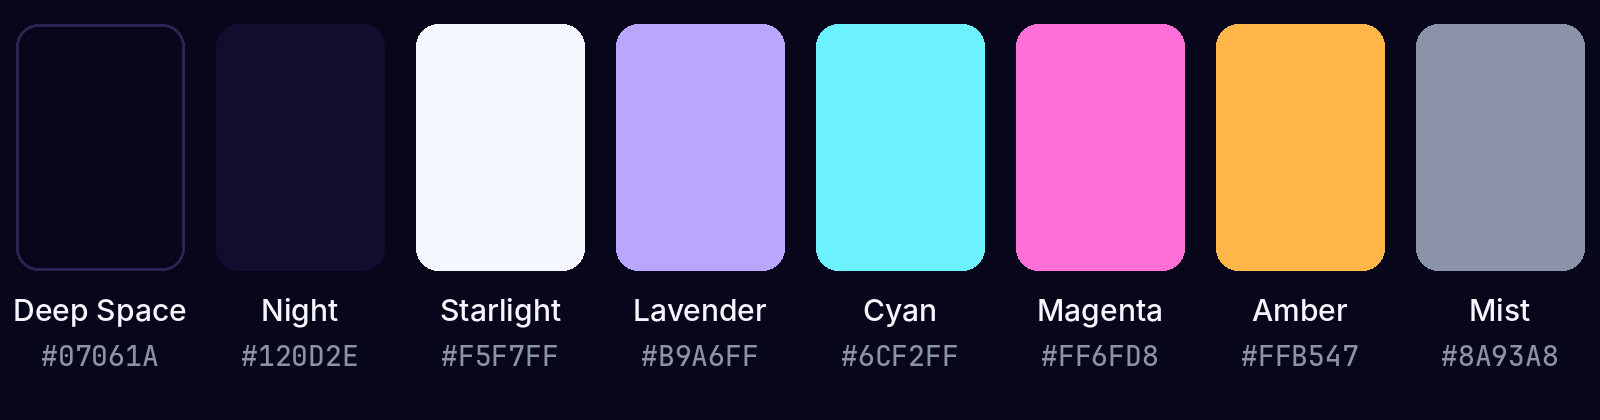
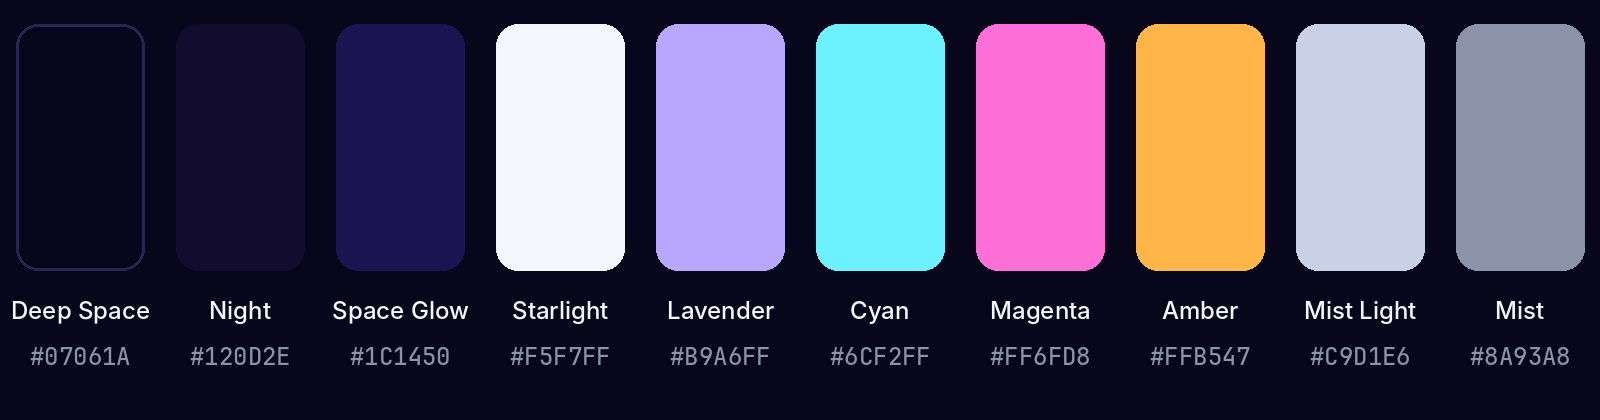
Playbook round 2: resolve contradictions found by a fresh-eyes audit
A consistency audit and a test spec for the next film (written from the
playbook alone) found 33 confirmed gaps; this fixes them.

Playbook
- Background limit is 0x1A (the base colour itself broke the old 0x14).
- Post figures: repeat on-screen figures exactly; size lists use 3 s.f.
- Starting object is not a stop: no STEP chip or row; label timings.
- Zoom-in films: fade windows, hold drift, YOU pin and payoff brackets
  defined both ways; cyan wins when a film starts at you; sound for that.
- Magenta = the universe and the outro glow, never a mid-film reveal;
  "finale" chord = the final stop, whatever it is.
- Nebula strength factor, first-sprint condition, hook end at 2.75 s,
  mono mark exception, exponent typesetting, MARK vs warp rings.

Reference code and assets
- Atom size text 0.106 nanometres; proton line fits above the 26 floor.
- Planet captions in Mist Light.
- brandlib: full 10-colour palette with roles, Inter Display Bold,
  no per-ring colour variant; banner tagline outside the clear space.
- Lockups no longer suggested for thumbnails or end cards; size list
  uses 60.1 AU; unused cover headline removed.
- AGENTS.md / Copilot mirror: baseline wording and repo intro.

Claude-Session: https://claude.ai/code/session_01UvW1GigXfErF5NAYihPgfw

diff --git a/lumiera_brand/brandlib.py b/lumiera_brand/brandlib.py
@@ -14,20 +14,22 @@ from PIL import Image, ImageDraw, ImageFont
 
 # --------------------------------------------------------------------------- palette
 PALETTE = {
-    "deep_space": "#07061A",  # background
-    "night": "#120D2E",  # raised background / gradients
-    "starlight": "#F5F7FF",  # primary text and the core of the mark
-    "lavender": "#B9A6FF",  # primary accent (the Planck dot)
-    "cyan": "#6CF2FF",  # "you are here", highlights
-    "magenta": "#FF6FD8",  # the observable universe, big reveals
-    "amber": "#FFB547",  # warm accent (Sun, life)
-    "mist": "#8A93A8",  # secondary text
+    "deep_space": "#07061A",  # backgrounds
+    "night": "#120D2E",  # raised backgrounds, gradients
+    "space_glow": "#1C1450",  # soft centre glow of brand stills only, never films
+    "starlight": "#F5F7FF",  # main text, the core of the mark
+    "lavender": "#B9A6FF",  # primary accent; the start of every journey
+    "cyan": "#6CF2FF",  # means you: the you-are-here dot, YOU tags; never a general highlight
+    "magenta": "#FF6FD8",  # the observable universe, the outro counter's glow
+    "amber": "#FFB547",  # warm accent (life, warmth); the films' Sun is #FFB13B
+    "mist_light": "#C9D1E6",  # readable secondary lines
+    "mist": "#8A93A8",  # small labels and hints
 }
 
 FONT_DIR = Path("/usr/share/fonts/opentype/inter")
 MONO_DIR = Path("/usr/share/fonts/truetype/jetbrains-mono")
 FONTS = {
-    "display": FONT_DIR / "InterDisplay-SemiBold.otf",
+    "display": FONT_DIR / "InterDisplay-Bold.otf",  # titles and the hook (brand §4)
     "display_medium": FONT_DIR / "InterDisplay-Medium.otf",
     "display_light": FONT_DIR / "InterDisplay-Light.otf",
     "body": FONT_DIR / "Inter-Medium.otf",
@@ -114,14 +116,14 @@ def draw_mark(light: Light, cx: float, cy: float, radius: float, variant: str = 
     """The Lumiera mark: a light point with rings whose radii double.
 
     ``radius`` is the outer ring radius in pixels.  ``variant`` picks the colouring:
-    "gradient" (lavender to cyan, by angle), "tri" (one colour per ring), "white".
+    "gradient" (lavender to cyan, by angle) or "white".
     ``mono`` forces a single colour (for watermarks).
     """
     x, y = light.grid(cx, cy, radius)
     r = np.hypot(x, y)
     th = np.arctan2(y, x)
     px = 1.0 / radius
-    lav, cyan, mag, white = rgb(PALETTE["lavender"]), rgb(PALETTE["cyan"]), rgb(PALETTE["magenta"]), rgb(PALETTE["starlight"])
+    lav, cyan, white = rgb(PALETTE["lavender"]), rgb(PALETTE["cyan"]), rgb(PALETTE["starlight"])
     # light comes from the upper left: blend lavender -> cyan across the mark
     t = np.clip((np.cos(th - math.radians(135)) * -0.5 + 0.5), 0, 1)[..., None]
     grad = lav[None, None, :] * (1 - t) + cyan[None, None, :] * t
@@ -129,8 +131,6 @@ def draw_mark(light: Light, cx: float, cy: float, radius: float, variant: str = 
     def colour(i):
         if mono is not None:
             return rgb(mono)[None, None, :]
-        if variant == "tri":
-            return (lav, cyan, mag)[i][None, None, :]
         if variant == "white":
             return white[None, None, :]
         return grad
@@ -165,7 +165,7 @@ def draw_mark(light: Light, cx: float, cy: float, radius: float, variant: str = 
 
 # --------------------------------------------------------------------------- backgrounds
 def space_background(w: int, h: int, cx=None, cy=None, stars: int = 140, seed: int = 7,
-                     glow_color="#1C1450", glow_radius=None) -> np.ndarray:
+                     glow_color=PALETTE["space_glow"], glow_radius=None) -> np.ndarray:
     """Deep-space gradient with a soft central glow and faint stars (float RGB)."""
     cx = w / 2 if cx is None else cx
     cy = h / 2 if cy is None else cy

diff --git a/lumiera_brand/build_brand.py b/lumiera_brand/build_brand.py
@@ -215,9 +215,10 @@ def youtube_banner() -> Image.Image:
     L.rgb *= (1 - 0.9 * np.exp(-((x / 820) ** 2 + ((y + 20) / 210) ** 2)))[..., None]  # keep the text area clean
     paste_light(base, L)
     # everything important stays inside YouTube's 1546x423 all-device safe area
-    lock = lockup(270, stacked=False, on_dark=False)
-    base.paste(lock, ((W - lock.width) // 2, H // 2 - lock.height // 2 - 52), lock)
-    draw_tracked(base, (W / 2, H // 2 + 158), TAGLINE, font("body", 70), PALETTE["mist"], 0.01)
+    # keep a quarter of the ring's diameter clear between the mark and the tagline (brand §2)
+    lock = lockup(250, stacked=False, on_dark=False)
+    base.paste(lock, ((W - lock.width) // 2, H // 2 - lock.height // 2 - 66), lock)
+    draw_tracked(base, (W / 2, H // 2 + 168), TAGLINE, font("body", 64), PALETTE["mist"], 0.01)
     return base
 
 
@@ -231,8 +232,8 @@ def palette_sheet() -> Image.Image:
         x0 = i * cw
         d.rounded_rectangle((x0 + 16, 24, x0 + cw - 16, 270), radius=22, fill=hx,
                             outline="#2A2550" if name == "deep_space" else None, width=3)
-        d.text((x0 + cw / 2, 310), name.replace("_", " ").title(), font=font("body", 30), fill=PALETTE["starlight"], anchor="mm")
-        d.text((x0 + cw / 2, 356), hx.upper(), font=font("mono", 28), fill=PALETTE["mist"], anchor="mm")
+        d.text((x0 + cw / 2, 310), name.replace("_", " ").title(), font=font("body", 24), fill=PALETTE["starlight"], anchor="mm")
+        d.text((x0 + cw / 2, 356), hx.upper(), font=font("mono", 24), fill=PALETTE["mist"], anchor="mm")
     return img
 
 

diff --git a/doubling_film/story.py b/doubling_film/story.py
@@ -93,11 +93,11 @@ MILESTONES: list[Milestone] = [
     ),
     Milestone(
         "proton", 1.68e-15, "A PROTON", "0.0000000000000017 m",
-        "About [100 quintillion] Planck lengths wide", "#FF8A5B", 3.2,
+        "[≈100 quintillion] Planck lengths wide", "#FF8A5B", 3.2,
         row=Row(1e20, "Planck lengths", (-0.5, 0.0), (0.5, 0.0), "#B9A6FF"),
     ),
     Milestone(
-        "atom", 1.06e-10, "A HYDROGEN ATOM", "0.1 nanometres",
+        "atom", 1.06e-10, "A HYDROGEN ATOM", "0.106 nanometres",
         "[≈60,000×] wider than its proton", "#5CC8FF", 3.2,
         row=Row(60_000, "protons", (-0.5, 0.0), (0.5, 0.0), "#FF8A5B"),
     ),

diff --git a/doubling_film/visuals.py b/doubling_film/visuals.py
@@ -604,7 +604,7 @@ class SolarSystem(Visual):
             dot = Dot(radius=rpx / 120, color=col)
             self.planets.append((dot, a, au, a0, name))
             if name in ("Uranus", "Neptune"):
-                self.labels.append((text(name, 17, color="#AFC0E0"), name))
+                self.labels.append((text(name, 17, color="#C9D1E6"), name))
         ring = Ellipse(width=0.17, height=0.05, stroke_color="#F2DDA8", stroke_width=1.6, fill_opacity=0)
         self.saturn_ring = ring
         belts = sprite("belts", D0 * 1.6, "#FFFFFF", alpha=0.32)

diff --git a/playbook/film-style.md b/playbook/film-style.md
@@ -47,12 +47,17 @@ and therefore to every cover, since a cover is a film frame.
 
 Every film is **one honest question, answered on screen**.
 
-1. **Hook (0–~2.5 s).** A question the viewer can answer in their head, with the signature
+1. **Hook (0–2.75 s; the first step starts at 2.75 s, `HOOK` in `story.py`).** A question the viewer can answer in their head, with the signature
    sub-line "Guess before it ends." (see `brand.md` §1).
    - The glyphs rise in from frame 0, 0.32 s each with a 0.011 s stagger, so the whole question is in by ≈ 0.8 s.
    - The sub-line enters at ≈ 0.85 s.
    - Both leave from 2.1 s and MUST be fully gone before the HUD fades in (2.5–2.95 s).
    - The starting object (e.g. the Planck dot with its dashed reticle) is visible underneath from frame 0.
+   - The starting object is **not a stop**. Its label block rises in from ≈ 0.45 s at the usual
+     positions (§5): size text in its accent with **no STEP chip**, the title and one line. It has no
+     measuring row. It starts leaving at ≈ 3.3 s, just before the mechanic's phase label (3.45 s), so
+     it is part of the hook frame and the cover. The HUD shows 0 when it fades in. When the start is
+     you, the YOU pin fades in with the HUD (2.5–2.95 s), never under the hook.
    - **The hook frame** is the moment the question and sub-line are both fully on screen and not yet
      leaving (1.9 s in The Doubling). Frame 0 is **not** the hook frame.
 2. **Teach the mechanic (~3 s).** Show the rule slowly before speeding up. The Doubling counts its
@@ -79,11 +84,11 @@ The answer to the hook MUST NOT appear in the cover or any post text (full list:
 |---|---|
 | Hold at a stop | **~3.2 s**. Use up to ~3.8 s when a note follows, ~5.4 s for the payoff stop and ~4.6 s for the final stop |
 | Transition between stops | `0.5 + 0.028 × (steps travelled)` seconds (≈ 0.7–1.1 s) |
-| First sprint (end of teaching → first stop) | ≈ 2.5 s |
+| First sprint (end of teaching → first stop) | ≈ 2.5 s when it crosses a stretch with no stop (The Doubling's desert, steps 9–66). If the first stop follows the teaching directly, it is an ordinary transition (row above) |
 | Labels | Enter 0.3 s **before** the object settles; exit when the next transition starts |
 | Note (a second line that replaces the comparison) | Enters 1.2–2.5 s into the hold, after the comparison has been read |
 | Comparison row | Starts 0.5 s after arrival and fills in **1.5 s** (ease-in-out). A row that belongs to a note starts as the note enters |
-| Motion | Never fully stops. During a hold the camera keeps drifting slowly in the direction of travel: from `n_i − 0.15` to `n_i + 0.25` |
+| Motion | Never fully stops. During a hold the camera keeps drifting slowly in the direction of travel: from `n_i − 0.15` to `n_i + 0.25` (when `n` falls: from `n_i + 0.15` to `n_i − 0.25`) |
 
 ---
 
@@ -94,9 +99,10 @@ additive glows, and procedural textures for the Sun, galaxies and so on. Backgro
 
 - **Background.** The film base is near-black indigo (`#08061A`; brand Deep Space `#07061A`). It MAY
   shift subtly in hue by scene (warm near the Sun, blue near Earth), but it MUST stay near-black, with
-  no channel above `0x14`. The Doubling's per-scene ramp is `BG_KEYS` in `doubling_film/film.py`.
-- A soft **nebula glow** (≈ 20% strength) sits behind the featured object, tinted with its accent.
-  Dial it down (to ~25–60%) where it would read as mud, e.g. empty frames between two stars.
+  no channel above `0x1A` (the base's own blue; every `BG_KEYS` entry is within it). The Doubling's per-scene ramp is `BG_KEYS` in `doubling_film/film.py`.
+- A soft **nebula glow** (≈ 20% opacity) sits behind the featured object, tinted with its accent.
+  Where it would read as mud or wash out the subject, scale it by a factor of ~0.25–0.8, never above 1
+  (The Doubling: star 0.25, solar system 0.6, Everest 0.7, Earth 0.8; `NEBULA` in `film.py`).
 - Glows MUST add like light ("screen" blend) and MUST fade to zero before the edge of their sprite.
   A visible square edge on a glow is a defect.
 - A light vignette is fine. Banding is avoided by the encode-time grain.
@@ -110,11 +116,14 @@ additive glows, and procedural textures for the Sun, galaxies and so on. Backgro
     It's never the accent of any other subject.
   - **Measuring rows** take the colour of **the thing being counted** (§4), lightened where it would
     not read against the current subject.
-  - **Lavender `#B9A6FF`** is the start: the starting object, the mechanic phase, the ×2 pops, and the
-    mechanic word in the hook ("double").
-  - **Magenta `#FF6FD8`** is the finale glow and the outro counter's glow.
+  - **Lavender `#B9A6FF`** is the start: the starting object, the mechanic phase, the ×2 / ÷2 pops,
+    and the mechanic word in the hook ("double"). When the starting object is you, cyan wins: the
+    human stays cyan, and lavender marks only the mechanic (the phase, the pops and the mechanic word).
+  - **Magenta `#FF6FD8`** is the observable universe's accent and the outro counter's glow in every
+    film. It is never used for a mid-film reveal. A final stop other than the universe keeps its own accent.
   - The **progress meter** fill is a gradient from the start accent to the final accent
-    (lavender → cyan → magenta in The Doubling).
+    (lavender → cyan → magenta in The Doubling). It starts from the starting object's colour (cyan
+    in a film that starts at you).
 - **Text colours.** Starlight `#F5F7FF` for titles and main text. Mist Light `#C9D1E6` for readable
   secondary lines (comparisons, notes, size text beside a chip, captions inside drawings, the outro
   label). Mist `#8A93A8` for small labels and hints (HUD label, hook sub-line, the meter's "0").
@@ -136,7 +145,7 @@ additive glows, and procedural textures for the Sun, galaxies and so on. Backgro
 | Solar system | `#8FB8FF` |
 | Stars | `#FF8C6B` |
 | Galaxy | `#C7A6FF` |
-| Universe / finale | `#FF6FD8` magenta |
+| Universe | `#FF6FD8` magenta |
 
 A **new subject** gets its accent once: at least ~30° of hue away from neighbouring stops, never cyan
 or magenta. Add it to this table in the same pull request, and reuse it in every later film.
@@ -152,9 +161,12 @@ Drawing style per subject (SHOULD):
 ### Movement
 - **Zoom by scale.** An object at stop `i` is drawn at `2^(n_i − n)` of its reference size (a
   diameter of 5.2 units, centred at y = +0.22).
-  - It's fully visible from about 1/10 to about 1.5× its reference size.
-  - It fades in between 3× and 1.5× (`n_i − 1.6` to `n_i − 0.55` when growing).
-  - It fades out between 1/10 and 1/85 (`n_i + 3.4` to `n_i + 6.4`).
+  - It's fully visible from about 1/10 to about 1.5× its reference size (`n_i + 3.4` to `n_i − 0.55`)
+    and fades to zero by 1/85 (`n_i + 6.4`) and by 3× (`n_i − 1.6`). The window is defined on `n`, so
+    it is the same in both directions; only the order changes.
+  - When growing (`n` rises): it fades in from 3× to 1.5× and fades out from 1/10 to 1/85.
+  - When zooming in (`n` falls): it fades in from 1/85 to 1/10 (arriving as a point) and fades out
+    from 1.5× to 3×.
   - Nothing pops in at full size.
 - **Direction.** These rules are defined on `n`, so they hold both ways. In a film that zooms in
   (`n` falls; e.g. The Halving):
@@ -181,11 +193,11 @@ Reuse these. They are what makes a film recognisably ours. The geometry and code
 |---|---|
 | **HUD counter** | Big number at top centre (JetBrains Mono Bold, size 104, y = +5.6, white `#FFFFFF`). Above it, a label at y = +6.55 (Inter Medium 19, CAPS, Mist, tracked +0.09 units) names the film's unit ("DOUBLINGS", "HALVINGS"). It fades in over 2.5–2.95 s, after the hook. While a stop holds, it shows that stop's step. On arrival it **punches** (+16% and back over 0.5 s) and flashes 85% toward the accent, decaying over ~0.45 s |
 | **Size readout + ruler** | A live scientific readout ("1.7 × 10⁰ m"): JetBrains Mono Medium 30, `#9FB3D9`, y = +4.5, mantissa to one decimal, with the exponent drawn as raised 0.6× digits and a true minus. It stays live during holds, because it labels the ruler; the stop's nominal size is the label's size text. Below it, a ruler at y = +4.12 (`#5D6B8C`, 1.6 px) whose width equals the reference size (5.2 units) |
-| **STEP chip** | At every stop, a pill ("STEP 116") left of the size text and above the title. JetBrains Mono Bold 22 in the accent, on an accent fill at 16% with a 1.6 px accent outline. **Step number = `round(|n_stop − n_start|)` on unrounded values**, in the film's own unit counted from its own start. The HUD shows the same number during the hold. Never subtract rounded steps taken from another film |
+| **STEP chip** | At every stop after the start (§2), a pill ("STEP 116") left of the size text and above the title. JetBrains Mono Bold 22 in the accent, on an accent fill at 16% with a 1.6 px accent outline. **Step number = `round(|n_stop − n_start|)` on unrounded values**, in the film's own unit counted from its own start. The HUD shows the same number during the hold. Never subtract rounded steps taken from another film |
 | **Measuring row** (acted-out comparison) | Copies of the **smaller of two neighbouring stops** line up across the larger one at its stop, or stack for heights, while a live counter climbs ("0 → 425 ants"). When the film grows, that's the previous stop; when it shrinks, it's the next one. Draw individual dots (radius 0.46 × spacing) when each copy is at least ~4 px (row length in px ÷ count); otherwise draw a glowing line (core 3.2 px, glow 10 px at 22%) with ~90 white beads (radius 0.022 units) and a small star at the growing end. The finished count MUST equal the number in the line on screen while it fills (the comparison, or the note at a final stop). The row fades out with its counter |
 | **Live counter** | JetBrains Mono Bold 21, in the row colour mixed 40% toward white, with a black halo (8 px stroke, 78%, round joins so there are no spikes). The format is commas for counts, plus a noun ("4,500 solar systems"), and words for totals of ten million or more ("100 quintillion Planck lengths"). For horizontal rows it rides the middle of the filled part, 0.3 units above or below the row (further if captions are in the way), clamped to x ∈ [−3.4, +3.3]. For vertical rows it sits beside the growing end. It MUST NOT collide with the YOU pin, the meter or other text |
-| **YOU pin** | A cyan capsule (0.9 × 0.4 units) reading "YOU" (Inter Display Bold 21, `#03121A`), with a stem and a small target ring, marking the viewer's position. Show it only while that position is inside the frame and the human is no bigger than ~1.2× the reference size: from the human stop onward when the film grows, or until the human leaves the frame when it shrinks. The meter's YOU tag remains throughout |
-| **Progress meter** | A **size axis** at the left edge: x = −3.95, from y = −2.45 (the smallest size shown) to y = +3.45 (the largest). The base line is `#27304A`, 2 px; ticks at each stop are in that stop's accent, at 30% opacity until passed. The fill runs from the start stop toward the current `n` (downward in a film that shrinks), with the accent gradient from §3. A "0" in Mist sits at the start, and a "YOU" tag (Inter Display Bold 16, cyan) sits at the viewer's step. For the payoff, brackets go to the right of the YOU tag (x = −3.21): mono bold 20, the part below "you" in Mist Light, the part above in cyan ("116" / "69"). They appear with the punchline and stay until 0.6 s into the next stop |
+| **YOU pin** | A cyan capsule (0.9 × 0.4 units) reading "YOU" (Inter Display Bold 21, `#03121A`), with a stem and a small target ring, marking the viewer's position. Show it only while that position is inside the frame. Its opacity is set on `n`, so it works in both directions: full while the human is at most ~1.2× its reference size (`n ≥ n_human − 0.25`), fading to zero by ~1.5× (`n_human − 0.6`). So it appears as the human arrives when the film grows, and it leaves as the human grows from 1.2× to 1.5× when the film shrinks. The meter's YOU tag remains throughout |
+| **Progress meter** | A **size axis** at the left edge: x = −3.95, from y = −2.45 (the smallest size shown) to y = +3.45 (the largest). The base line is `#27304A`, 2 px; ticks at each stop are in that stop's accent, at 30% opacity until passed. The fill runs from the start stop toward the current `n` (downward in a film that shrinks), with the accent gradient from §3. A "0" in Mist sits at the start, and a "YOU" tag (Inter Display Bold 16, cyan) sits at the viewer's step. For the payoff, two brackets go to the right of the YOU tag (x = −3.21), mono bold 20: a cyan bracket from you to the answer, labelled with your distance to it ("69"), and a Mist Light bracket for the distance the reframing line compares it with ("116", the start to you, in The Doubling). Each spans its own stretch of the axis, above or below YOU as the film's direction puts it. They appear with the punchline and stay until 0.6 s into the next stop |
 | **Answer ring** | When the payoff stop arrives, a thin ring in its accent grows around the HUD counter (1.4 → 5.0 units over 1.2 s, ease-out) and fades |
 | **×2 / ÷2 pops** | While the mechanic is taught, "×2" (Inter Display Bold 40, lavender) pops beside the counter at (+1.55, +5.62): +25% scale, then fading over ~0.3 s. It happens together with the digit change and the pluck |
 
@@ -200,7 +212,7 @@ Reuse these. They are what makes a film recognisably ours. The geometry and code
 | Stop / phase title | Inter Display Bold, CAPS | 60, fit to ≤ 6.8 units | "THE MILKY WAY" |
 | Comparison / note line | Inter Medium | 31 (29 when two lines) | Sentence case, Mist Light. The `[bracketed]` number is in the accent. Fit down to ≤ 6.8 units, never below 26; if it still doesn't fit, shorten the line. Only notes may use two lines |
 | STEP chip | JetBrains Mono Bold | 22 | See §4 |
-| Size text | JetBrains Mono Medium | 25 | In Mist Light beside a chip, or in the accent when there's no chip (phase labels). If it contains Unicode superscript exponents ("1.6 × 10⁻³⁵ m"), set it in Inter Medium 27, because JetBrains Mono has no superscript minus |
+| Size text | JetBrains Mono Medium | 25 | In Mist Light beside a chip, or in the accent when there's no chip (phase labels and the start). If it contains Unicode superscript exponents ("1.6 × 10⁻³⁵ m"), set it in Inter Medium 27, because JetBrains Mono has no superscript minus |
 | Small captions inside drawings | Inter | 17–20 | "Sun", "Proxima Centauri", planet names. Mist Light |
 | HUD label | Inter Medium, CAPS | 19 | Tracked **+0.09 units per glyph** (≈ +33% of the em) |
 
@@ -232,15 +244,17 @@ Text MUST NOT overlap other text, the YOU pin or the meter at any time. Check wi
 ## 6. Numbers & claims
 
 - **One source of sizes.** Each film's README holds a "The numbers" table, and its code (`story.py`)
-  is the only source of its sizes. Captions, descriptions, sources pages and comments quote from that
-  table, to at least 3 significant figures (1.68 fm, 0.106 nm, 4.25 ly). A later film reuses the same
+  is the only source of its sizes. Post text (captions, titles, descriptions, comments) that repeats a
+  figure shown on screen writes it exactly as the film shows it ("1.6 × 10⁻³⁵ m"). Lists of sizes (the
+  YouTube "Sizes used" line, a sources page) quote the table to at least 3 significant figures, or as
+  the table gives it when it has fewer (1.616 × 10⁻³⁵ m, 1.68 fm, 0.106 nm, 60.1 AU, 4.25 ly; 4 mm, 1.7 m). A later film reuses the same
   size for the same subject (you 1.7 m, hydrogen atom 0.106 nm, proton 1.68 fm).
 - **Rounding.** Round to the nearest value, choosing precision for readability:
   - Prefer **2 significant figures** (533 → 530, 5,205 → 5,200, 6,460 → 6,500, 4,465 → 4,500). A third
     MAY be kept (23,549 → 23,500).
   - Whole counts below 1,000 MAY be exact (109, 425).
   - A rounder figure MAY be used when the line says **"about" or "≈"** (943 → "about 1,000";
-    63,095 → "≈ 60,000×"; 1.04 × 10²⁰ → "about 100 quintillion").
+    63,095 → "≈ 60,000×"; 1.04 × 10²⁰ → "≈ 100 quintillion").
   - Any figure more than ~2% off the computed value MUST carry "about" or "≈", on screen included.
   - Never choose the direction or the precision because the result sounds bigger.
 - **Comparisons** are between a stop and its smaller neighbour ("75 viruses side by side"), so they
@@ -269,7 +283,7 @@ The score is generated from the same timeline as the picture, so it's always in 
 | Plucks | A rising pentatonic pluck (E4 G4 A4 C5 D5 E5 G5 A5) on each step of the mechanic phase |
 | Whoosh | Filtered noise that follows the zoom speed. Keep it under the bells, never harsh |
 | Stop bell | A bell on each regular stop's arrival, climbing an A-minor pentatonic scale, over a small sub thump (120 → 60 Hz) |
-| Big reveals | No bell. Instead, a sub-bass boom (95 → 34 Hz) plus a chord. "You" is A major (A3 E4 A4 C♯5), the payoff is A minor add9 (A2 E3 A3 C4 E4 B4) and the finale is F major 7/9 (F2 C3 A3 E4 G4 C5). These are the loudest moments |
+| Big reveals | No bell. Instead, a sub-bass boom (95 → 34 Hz) plus a chord. "You" is A major (A3 E4 A4 C♯5), the payoff is A minor add9 (A2 E3 A3 C4 E4 B4) and the finale (the film's final stop, whatever its subject; the universe in The Doubling) is F major 7/9 (F2 C3 A3 E4 G4 C5). If the payoff stop is also the final stop, it takes the payoff chord. These are the loudest moments |
 | Answer shimmer | Four quiet high bells (E5 A5 B5 E6) as the payoff line lands |
 | Counter ratchet | ~22 soft clicks (1.5 → 3.2 kHz) that follow the row's easing, plus a quiet E6 chime when it lands |
 | Outro | A filtered swell into the counter's flight, then a boom and an A-minor chord (A2 E3 B3 C4 E4 A4) |
@@ -277,7 +291,9 @@ The score is generated from the same timeline as the picture, so it's always in 
 | Master | **−14 to −16 LUFS integrated, true peak ≤ −1.0 dBTP, measured on the final MP4** (ffmpeg `ebur128=peak=true`). Master the WAV to about −1.5 dBFS sample peak so AAC encoding stays under −1 dBTP. Convolution reverb |
 
 In a film that shrinks, the plucks and stop bells still rise with **progress**, while the pad follows
-**size**. When the film starts at you, the frame-0 bloom is the "you" moment.
+**size**. When the film starts at you, the frame-0 hook layer is the "you" moment: the soft bloom
+(70 → 40 Hz) stays, the A4 bell becomes the "You" chord (A3 E4 A4 C♯5) at the bell's level, and
+there is no 95 → 34 Hz boom and no later "you" reveal.
 
 ---
 

diff --git a/playbook/brand.md b/playbook/brand.md
@@ -41,7 +41,9 @@ end: *you are here*. Its colouring runs from lavender to cyan across the mark, a
   - Profile pictures, the YouTube banner and watermark, the *Start here* highlight, and stills
     outside the films (collaborations, press).
   - **Never** as a sign-off inside a film (`film-style.md` §1), and never on a cover (a cover is a film frame).
-  - A film MAY use the mark's geometry as story content (e.g. doubling rings), built from `MARK`.
+  - A film MAY show the mark's geometry as story content (e.g. the open rings and the cyan dot drawn as
+    an object in the story), built from `MARK`. The faint full-circle warp rings of `film-style.md` §3
+    are a film device, not the mark, and are not built from `MARK`.
   - Use the stacked lockup in square-ish spaces and the horizontal one in wide spaces.
 - **Wordmark:** "LUMIERA" in Inter Display Medium, capitals, with 0.32 em of space between letters
   (none after the last letter, so it stays centred).
@@ -54,7 +56,9 @@ end: *you are here*. Its colouring runs from lavender to cyan across the mark, a
 - **Backgrounds:** deep space or any dark, calm background. On light backgrounds, use the wordmark
   in Deep Space and no glowing mark.
 - **MUST NOT:** recolour single rings, close the open ring, move or remove the cyan dot, stretch it,
-  or add shadows, outlines or bevels. This applies to every frame where the full mark is shown.
+  or add shadows, outlines or bevels. This applies to every full-colour mark. The one exception is the
+  white mono mark (below the minimum size, and the YouTube watermark): it is drawn with
+  `draw_mark(mono=…)` in a single colour and has no you-are-here dot. Never add one by hand.
 
 ---
 
@@ -66,9 +70,9 @@ end: *you are here*. Its colouring runs from lavender to cyan across the mark, a
 | Night | `#120D2E` | Raised backgrounds, gradients |
 | Space Glow | `#1C1450` | Soft centre glow of **brand stills only** (profile picture, banner, highlight covers, on-dark plates), fading to Deep Space at the edges. Films don't use it |
 | Starlight | `#F5F7FF` | Main text, the core of the mark |
-| Lavender | `#B9A6FF` | Primary accent; the start of every journey |
+| Lavender | `#B9A6FF` | Primary accent; the start of every journey (the mechanic, and the starting object unless that is you) |
 | Cyan | `#6CF2FF` | Means **you**: the YOU pin and tags, the you-are-here dot, copies of people, your distance to an answer, and the hook's target word. Never a general highlight or another subject's accent |
-| Magenta | `#FF6FD8` | Big reveals, the universe, the finale |
+| Magenta | `#FF6FD8` | The observable universe, and the outro counter's glow in every film. Never a mid-film reveal (`film-style.md` §3) |
 | Amber | `#FFB547` | Warm accent (life, warmth). In films, the Sun's accent is `#FFB13B` (`film-style.md` §3) |
 | Mist Light | `#C9D1E6` | Readable secondary lines |
 | Mist | `#8A93A8` | Small labels and hints |
@@ -91,7 +95,8 @@ fixed colour meanings for films are in `film-style.md` §3.
 - **Powers of ten:** write them as "1.6 × 10⁻³⁵ m" (a multiplication sign and a raised exponent) in
   every caption, description, asset and frame. Never use `^`, e-notation or "x". In JetBrains Mono,
   draw the exponent as raised, smaller digits, as the HUD readout does, because the font has no
-  superscript minus.
+  superscript minus. Static film text that needs an exponent (a stop's size text) is set in Inter
+  Medium with Unicode superscripts instead (`film-style.md` §5).
 - **Fonts:** Inter 4.0 or later (the Inter Display family exists only from 4.0) and JetBrains Mono 2.x.
   Both are free and open-source. Don't substitute other fonts. Renderers replace a missing family
   without warning, so check the fonts are installed before rendering.
@@ -105,8 +110,9 @@ Calm, precise, awe-filled. The scale does the shouting; we don't.
 1. **Open an honest loop and close it in the same video.** Ask a question the viewer can answer in
    their head. Never hold the answer back for "part 2" or a follow.
 2. **Give the guess room.** Ask, then let the counter run.
-3. **Numbers are sacred.** Every figure comes from the film's sizes table and is identical across the
-   video, caption, title and comments. Round as in `film-style.md` §6: to the nearest value, with
+3. **Numbers are sacred.** Every figure comes from the film's sizes table. A figure the film shows is
+   written the same way in the caption, title and comments; lists of sizes quote the table
+   (`film-style.md` §6). Round as in `film-style.md` §6: to the nearest value, with
    "about" or "≈" when a figure is more than ~2% off. Never round because a number sounds bigger.
 4. **Keep the qualifiers:** *observable* universe, *where known physics runs out*, *on average*,
    *in theory*. Flag any simplification in one plain line. An outro MAY use a poetic phrase ("to the

diff --git a/playbook/ideas.md b/playbook/ideas.md
@@ -16,7 +16,7 @@ When an idea is produced, move it to the *Made* list with the folder that holds 
 
 The signature series that The Doubling starts. Sizes, distances, durations and quantities too large or too small to feel are made visible one step at a time, with step chips, a climbing counter and copies of a smaller neighbour lining up. Each film opens with a number the viewer guesses before the reveal. This is the most shareable pillar, so post it most often early on.
 
-- The Halving, the direct sequel. Start at you (doubling 116) and halve your way down. How many halvings until you're the size of a hydrogen atom? The answer is 34 (round(116.34 − 82.44) = 34). The HUD counts HALVINGS from you (0 at you), and every step is `round(|n_stop − n_start|)` on unrounded values (film-style §4). Reuse the mark's doubling rings, built from `brandlib.MARK`, and close on 'Remember that.'
+- The Halving, the direct sequel. Start at you (doubling 116) and halve your way down. How many halvings until you're the size of a hydrogen atom? The answer is 34 (round(116.34 − 82.44) = 34). The HUD counts HALVINGS from you (0 at you), and every step is `round(|n_stop − n_start|)` on unrounded values (film-style §4). Reuse the mark (its open rings and cyan dot), built from `brandlib.MARK`, as story content, and close on 'Remember that.'
 - The Doubling: Time. Start at the Planck time (5.4 × 10⁻⁴⁴ s) and double up to the age of the universe, which takes about 202 doublings. Hook: space took 205. Will time take more or fewer? Stops include a camera flash, a heartbeat, a human life and the age of the Sun. Compute and source every stop before scripting.
 - Fold it 42 times. In theory, a 0.1 mm sheet of paper folded in half 42 times would be about 440,000 km thick, past the Moon's average distance of about 384,400 km. The glowing stack climbs one fold at a time, and one plain line says that real paper can't be folded that many times.
 - A million, a billion, a trillion seconds. Three glowing clocks run to about 11.6 days, about 31.7 years and about 31,700 years. Viewers guess where each one lands. The third clock is still running when the film ends.
@@ -45,4 +45,4 @@ Math made visible. Probability, geometry and number patterns are drawn as light,
 - The birthday threads. People appear one by one, and a thread of light joins every possible pair. Viewers guess the room size first. At 23 people there are 253 pairs, and the chance of a shared birthday passes 50% (about 50.7%).
 - The chessboard and the rice. One grain goes on the first square, and the count doubles on every square after. The counter races to 18,446,744,073,709,551,615 grains (2⁶⁴ − 1) on the full board: The Doubling's idea in 64 steps.
 - Pi from falling light. Random points of light fall into a square with a circle inside it. The share landing inside the circle, times 4, settles toward 3.14159… as a counter climbs.
-- Draw anything with spinning circles. A Fourier series is built one glowing circle at a time until the chain traces the Lumiera logo: a glowing dot with rings that double in radius.
+- Draw anything with spinning circles. A Fourier series is built one glowing circle at a time until the chain traces a shape the viewer recognises, e.g. the mark's open rings and cyan dot, built from `brandlib.MARK` as story content mid-film (brand.md §2), never as a closing logo or sign-off. The film still ends on its loop.

diff --git a/lumiera_brand/FIRST_POST.md b/lumiera_brand/FIRST_POST.md
@@ -63,7 +63,7 @@ Title (58 / 100):
 Planck length to a galaxy: how many doublings? Guess first
 ```
 
-Description (944 / 5,000):
+Description (946 / 5,000):
 
 ```
 Start at the Planck length (1.6 × 10⁻³⁵ m), where known physics runs out, and keep doubling. How many doublings until you reach a galaxy? Guess before it ends, then put your number in the comments.
@@ -83,7 +83,7 @@ The stops:
 ??? · the Milky Way (your guess)
 205 · the observable universe
 
-Step numbers are rounded to whole doublings. Sizes used: Planck length 1.616 × 10⁻³⁵ m · proton 1.68 fm · hydrogen atom 0.106 nm · virus 100 nm · red blood cell 7.5 µm · ant 4 mm · you 1.7 m · Everest 8,849 m · Earth 12,742 km · Sun 1.39 million km · solar system 60 AU (Neptune's orbit) · Proxima Centauri 4.25 light-years · Milky Way 100,000 light-years · observable universe 93 billion light-years.
+Step numbers are rounded to whole doublings. Sizes used: Planck length 1.616 × 10⁻³⁵ m · proton 1.68 fm · hydrogen atom 0.106 nm · virus 100 nm · red blood cell 7.5 µm · ant 4 mm · you 1.7 m · Everest 8,849 m · Earth 12,742 km · Sun 1.39 million km · solar system 60.1 AU (Neptune's orbit) · Proxima Centauri 4.25 light-years · Milky Way 100,000 light-years · observable universe 93 billion light-years.
 
 Lumiera: science, drawn in light. A new film every week.
 

diff --git a/.github/copilot-instructions.md b/.github/copilot-instructions.md
@@ -2,6 +2,9 @@
 
 This file mirrors `../AGENTS.md`. Edit `AGENTS.md` and the `playbook/` files, then copy the change here, prefixing relative links with `../`.
 
+This repository is the baseline for **Lumiera**, a science-explained-visually channel on TikTok,
+Instagram Reels and YouTube Shorts. It holds the films, the brand and the guide that keeps them consistent.
+
 ## Read first
 
 **[`playbook/`](../playbook/README.md) is the source of truth for style.** Before any creative work
@@ -14,8 +17,8 @@ If anything here or elsewhere conflicts with the playbook, the playbook wins.
 
 ## The essentials (summary of the playbook)
 
-- **Format:** vertical 9:16, 1080×1920, 60 fps. No text below y = −4.8 (the bottom ~20%) or in the
-  right button column; centred text ≤ 6.8 units wide on a 9×16-unit frame. No logo or end card
+- **Format:** vertical 9:16, 1080×1920, 60 fps. No text baseline below y = −4.8 (the bottom ~20%; descenders may dip
+  to ≈ −4.9) or in the right button column; centred text ≤ 6.8 units wide on a 9×16-unit frame. No logo or end card
   inside films; the loop is the sign-off.
 - **Look:** glowing light on near-black deep space (`#07061A`). One accent colour per scene. Cyan
   `#6CF2FF` means "you" (never another subject's accent). Fonts: Inter Display (titles, CAPS),

diff --git a/lumiera_brand/README.md b/lumiera_brand/README.md
@@ -26,6 +26,6 @@ python build_brand.py        # writes assets/ (the Reels covers need ../doubling
 | `assets/instagram/highlight_*.png` | Instagram story highlight covers | 1080×1920; the icon sits inside the circle Instagram crops |
 | `assets/posts/the_doubling_cover_hook.jpg` | Cover for the first video on TikTok and Reels | 1080×1920; the question stays inside Instagram's 3:4 grid crop |
 | `assets/logo/lumiera_mark_*.png` | The mark on its own (transparent, on dark, white mono) | 2048×2048 |
-| `assets/logo/lumiera_lockup_*` | Mark + wordmark, horizontal or stacked | For end cards, thumbnails, collaborations |
+| `assets/logo/lumiera_lockup_*` | Mark + wordmark, horizontal or stacked | The YouTube banner and stills outside the films (collaborations, press). Never in a film, an end card, a cover or a thumbnail (`../playbook/brand.md` §2) |
 | `assets/logo/lumiera_wordmark_*.png` | "LUMIERA" wordmark, white or dark | Transparent |
 | `assets/brand/brand_sheet.png`, `palette.png` | One-page overview of the brand | |

diff --git a/AGENTS.md b/AGENTS.md
@@ -15,8 +15,8 @@ If anything here or elsewhere conflicts with the playbook, the playbook wins.
 
 ## The essentials (summary of the playbook)
 
-- **Format:** vertical 9:16, 1080×1920, 60 fps. No text below y = −4.8 (the bottom ~20%) or in the
-  right button column; centred text ≤ 6.8 units wide on a 9×16-unit frame. No logo or end card
+- **Format:** vertical 9:16, 1080×1920, 60 fps. No text baseline below y = −4.8 (the bottom ~20%; descenders may dip
+  to ≈ −4.9) or in the right button column; centred text ≤ 6.8 units wide on a 9×16-unit frame. No logo or end card
   inside films; the loop is the sign-off.
 - **Look:** glowing light on near-black deep space (`#07061A`). One accent colour per scene. Cyan
   `#6CF2FF` means "you" (never another subject's accent). Fonts: Inter Display (titles, CAPS),
